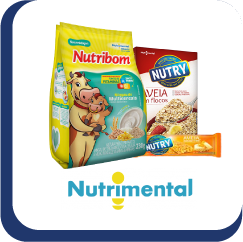
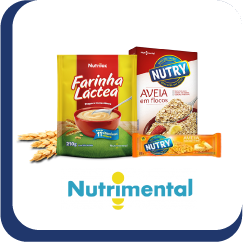
Adding infinite slide to brands

Changed region(s): [[0.0576, 0.0868, 0.6049, 0.7231]]

diff --git a/assets/js/main.js b/assets/js/main.js
@@ -62,24 +62,6 @@ document.addEventListener("DOMContentLoaded", () => {
   }
 });
 
-// Brands slide 
-window.onload = function () {
-  //initialize swiper when document ready
-  var swiper = new Swiper('.swiper-container', {
-    slidesPerView: screen.width < 768 ? 2.75:7,
-    spaceBetween: 20,
-    freeMode: true,
-    autoplay: {
-      delay: 500,
-      disableOnInteraction: false,
-    },
-    pagination: {
-      el: '.swiper-pagination',
-      clickable: true,
-    },
-  });
-};
-
 // form work 
 const fileInput = document.querySelector('#file-js-example input[type=file]');
 fileInput.onchange = () => {
@@ -105,6 +87,17 @@ ready(function () {
     pagination: true,
     effect: 'fade',
     loop: true,
-    autoplay: true
+    autoplay: true,
+    pauseOnHover: false
+  });
+  bulmaCarousel.attach('#brands-slider', {
+    pagination: false,
+    autoplaySpeed: 1000,
+    slidesToScroll: 1,
+    slidesToShow: 3,
+    infinite: true,
+    loop: true,
+    autoplay: true,
+    pauseOnHover: false
   });
 });

diff --git a/_includes/brands.html b/_includes/brands.html
@@ -1,13 +1,15 @@
 <section class="section brands">
-  <div class="swiper-container">
-    <div class="swiper-wrapper">
-          {% for img in site.static_files %} 
-          {% if img.path contains 'brands' %}
-            <div class="swiper-slide">
-              <img src="{{ img.path | relative_url }}" alt="">
-            </div>
-          {% endif %}
-        {% endfor %}     
-    </div>
+  <div id="brands-slider">
+    {% for img in site.static_files %}
+      {% if img.path contains 'brands' %}
+        <div class="card">
+          <div class="card-image">
+            <figure class="brands-image">
+              <img src="{{ img.path | relative_url }}">
+            </figure>
+          </div>
+        </div>
+      {% endif %}
+    {% endfor %}
   </div>
 </section>

diff --git a/_sass/cda/_brands.scss b/_sass/cda/_brands.scss
@@ -1,18 +1,24 @@
-.is-horizontal-center {
-    justify-content: center;
+.brands{
+  padding-right: -500px;
+  background-color: #f6f9f9;
+}
+#brands-slider .slider-item{
+  width: 190px !important;
+}
+
+.brands-image{
+  height:auto;
+  width:auto;
+}
+
+@media (max-width: 768px){
+  .brands-image{
+    height: 120px;
+    width: 120px;
   }
 
-  .brands{
-      background-color:#f6f9f9;
+  #brands-slider .slider-item{
+    width: 130px !important;
   }
-
-  .swiper-container {
-    width: 100%;
-    height: 100%;
-  }
-
-  @media (max-width: 768px) {
-    .swiper-slide{
-      width: 100px !important;
-    }
-  }
+  
+}

diff --git a/_includes/footer.html b/_includes/footer.html
@@ -39,4 +39,3 @@
 </footer>
 <script src="{{ "/assets/js/main.js" |  relative_url }}"></script>
 <script src="{{ "/assets/js/bulma-carousel.min.js" |  relative_url }}"></script>
-<script src="https://unpkg.com/swiper/swiper-bundle.min.js"></script>
